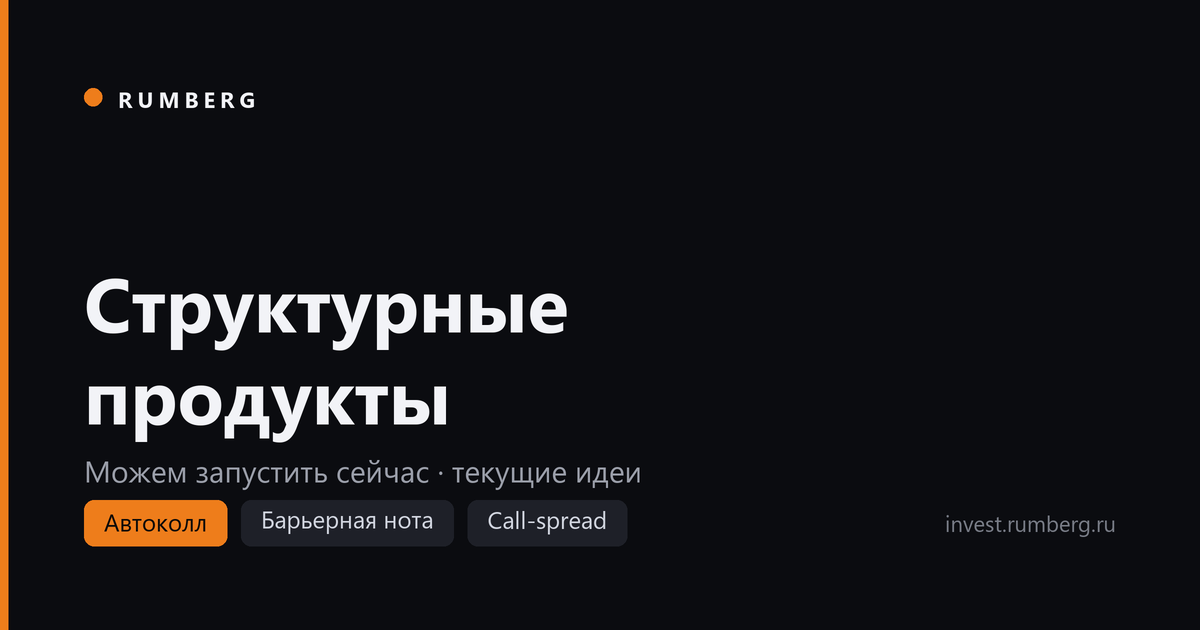
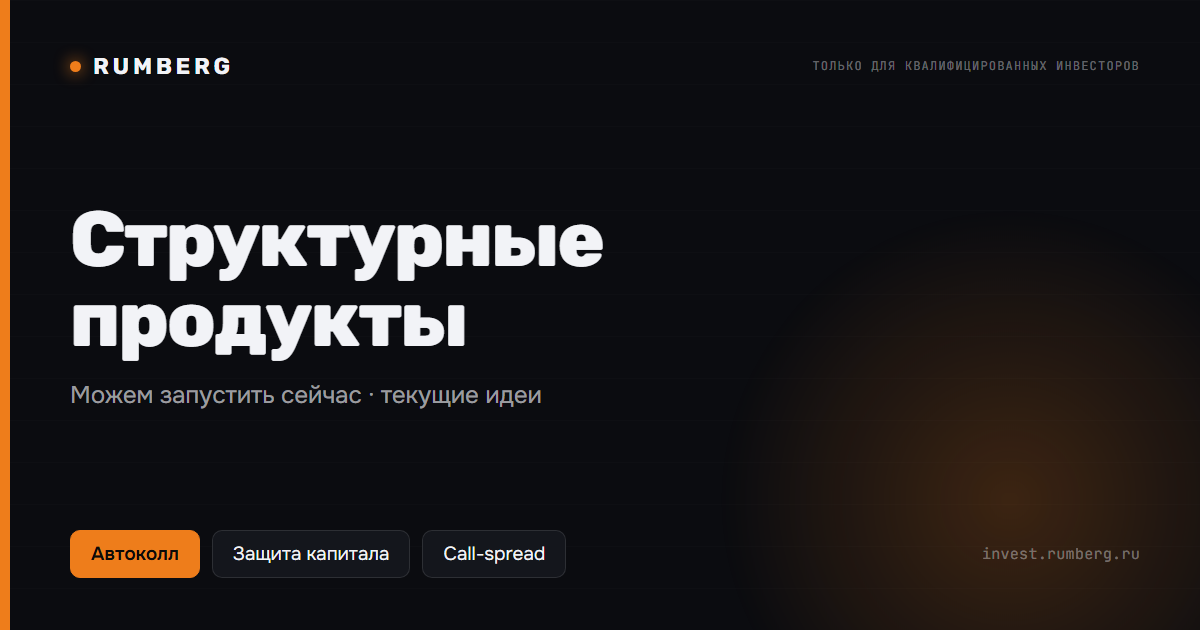
Обложка превью: «Барьерная нота» → «Защита капитала», стиль как у карточек; генератор в репо

diff --git a/make_og_cover.py b/make_og_cover.py
@@ -1,0 +1,142 @@
+# -*- coding: utf-8 -*-
+"""
+Перегенерирует og-cover.png — ОБЩУЮ обложку превью (1200x630). Она уходит в мессенджер
+для всех страниц без персональной картинки: главная, доска, дайджест, размещения,
+выпуски, Библиотека, путеводитель, «О компании», карточка, one-pager, 404.
+
+Зачем понадобилось: на прежней обложке (20.07.2026) был чип «Барьерная нота» —
+слово «Нота» на витрине запрещено, а зачистка 22.07 обложку не задела: она рисуется
+отдельным скриптом, которого не было в репозитории.
+
+Дизайн повторяет продуктовые карточки (make_og_products.py): та же палитра, сетка,
+свечение, бренд-строка. Чипы — типы, которые реально есть на доске.
+
+Запуск: python make_og_cover.py [путь-к-репозиторию]
+"""
+import os, sys, socket, subprocess, threading, functools, http.server, shutil
+
+ROOT = sys.argv[1] if len(sys.argv) > 1 else r"C:\Users\ruslan.sabirov\Documents\сайт\сайт СО\pythonProject1"
+OUT = os.path.join(ROOT, "og-cover.png")
+TPL_NAME = "_og_cover_tmp.html"
+
+CHROME_CANDIDATES = [
+    r"C:\Program Files\Google\Chrome\Application\chrome.exe",
+    r"C:\Program Files (x86)\Google\Chrome\Application\chrome.exe",
+    r"C:\Program Files\Microsoft\Edge\Application\msedge.exe",
+    r"C:\Program Files (x86)\Microsoft\Edge\Application\msedge.exe",
+]
+
+
+def find_chrome():
+    for p in CHROME_CANDIDATES:
+        if os.path.exists(p):
+            return p
+    for name in ("chrome", "msedge", "chromium"):
+        p = shutil.which(name)
+        if p:
+            return p
+    raise SystemExit("Chrome/Edge не найден — нужен для рендера PNG")
+
+
+def free_port():
+    s = socket.socket()
+    s.bind(("127.0.0.1", 0))
+    p = s.getsockname()[1]
+    s.close()
+    return p
+
+
+def serve(port):
+    handler = functools.partial(http.server.SimpleHTTPRequestHandler, directory=ROOT)
+    httpd = http.server.ThreadingHTTPServer(("127.0.0.1", port), handler)
+    threading.Thread(target=httpd.serve_forever, daemon=True).start()
+    return httpd
+
+
+TEMPLATE = """<!DOCTYPE html>
+<html lang="ru">
+<head>
+<meta charset="utf-8">
+<link rel="preconnect" href="https://fonts.googleapis.com">
+<link rel="preconnect" href="https://fonts.gstatic.com" crossorigin>
+<link href="https://fonts.googleapis.com/css2?family=Onest:wght@400;500;600;700&family=JetBrains+Mono:wght@400;500;600&family=Rubik:wght@600;700;800&display=swap" rel="stylesheet">
+<style>
+  :root{--bg:#0B0C10;--card:#14161C;--ink:#F2F3F7;--mut:rgba(242,243,247,.64);
+    --mut2:rgba(242,243,247,.40);--bd:rgba(255,255,255,.11);--or:#EE7D1B;
+    --f:'Onest',sans-serif;--m:'JetBrains Mono',monospace;--d:'Rubik',sans-serif;}
+  *{box-sizing:border-box;margin:0;padding:0}
+  html,body{background:#22242b}
+  body{display:flex;align-items:center;justify-content:center;min-height:100vh;
+       color:var(--ink);font-family:var(--f);-webkit-font-smoothing:antialiased}
+  .og{position:relative;width:1200px;height:630px;background:var(--bg);overflow:hidden;
+      display:flex;flex-direction:column;padding:52px 60px;border-left:10px solid var(--or)}
+  .grid{position:absolute;inset:0;opacity:.55;
+    background:linear-gradient(rgba(255,255,255,.02) 1px,transparent 1px) 0 0/100% 42px}
+  .glow{position:absolute;right:-140px;bottom:-200px;width:660px;height:660px;border-radius:50%;
+    background:radial-gradient(circle,rgba(238,125,27,.22),transparent 62%);filter:blur(6px)}
+  .top{position:relative;z-index:2;display:flex;justify-content:space-between;align-items:center}
+  .wm{display:inline-flex;align-items:center;gap:12px;font-family:var(--d);font-weight:700;
+      font-size:23px;letter-spacing:.16em}
+  .dot{width:11px;height:11px;border-radius:50%;background:var(--or);box-shadow:0 0 16px var(--or)}
+  .qual{font-family:var(--m);font-size:12px;letter-spacing:.1em;color:var(--mut2);text-transform:uppercase}
+  .mid{position:relative;z-index:2;flex:1;display:flex;flex-direction:column;justify-content:center}
+  h1{font-family:var(--d);font-weight:800;line-height:1.02;letter-spacing:-.025em;font-size:78px}
+  .sub{font-size:24px;color:var(--mut);margin-top:20px}
+  .bot{position:relative;z-index:2;display:flex;align-items:center;gap:12px}
+  .chip{background:var(--card);border:1px solid var(--bd);border-radius:10px;
+        padding:11px 20px;font-size:19px;color:var(--ink)}
+  .chip.hot{background:var(--or);border-color:var(--or);color:#0C0A08;font-weight:600}
+  .site{margin-left:auto;font-family:var(--m);font-size:15px;color:var(--mut2);letter-spacing:.02em}
+</style>
+</head>
+<body>
+<div class="og">
+  <div class="grid"></div><div class="glow"></div>
+  <div class="top">
+    <span class="wm"><span class="dot"></span>RUMBERG</span>
+    <span class="qual">только для квалифицированных инвесторов</span>
+  </div>
+  <div class="mid">
+    <h1>Структурные<br>продукты</h1>
+    <div class="sub">Можем запустить сейчас · текущие идеи</div>
+  </div>
+  <div class="bot">
+    <span class="chip hot">Автоколл</span>
+    <span class="chip">Защита капитала</span>
+    <span class="chip">Call-spread</span>
+    <span class="site">invest.rumberg.ru</span>
+  </div>
+</div>
+</body>
+</html>
+"""
+
+
+def main():
+    chrome = find_chrome()
+    tpl_path = os.path.join(ROOT, TPL_NAME)
+    with open(tpl_path, "w", encoding="utf-8", newline="\n") as f:
+        f.write(TEMPLATE)
+    port = free_port()
+    srv = serve(port)
+    profile = os.path.join(os.environ.get("TEMP", "/tmp"), "chr-og-cover")
+    try:
+        cmd = [chrome, "--headless=new", "--disable-gpu", "--no-sandbox", "--hide-scrollbars",
+               "--force-device-scale-factor=1", "--window-size=1200,630",
+               "--virtual-time-budget=5000", "--user-data-dir=" + profile,
+               "--screenshot=" + OUT, "http://127.0.0.1:%d/%s" % (port, TPL_NAME)]
+        subprocess.run(cmd, capture_output=True)
+    finally:
+        srv.shutdown()
+        try:
+            os.remove(tpl_path)
+        except OSError:
+            pass
+    if os.path.exists(OUT) and os.path.getsize(OUT) > 8000:
+        print("готово: %s (%.0f КБ)" % (OUT, os.path.getsize(OUT) / 1024))
+    else:
+        raise SystemExit("рендер не удался")
+
+
+if __name__ == "__main__":
+    main()
